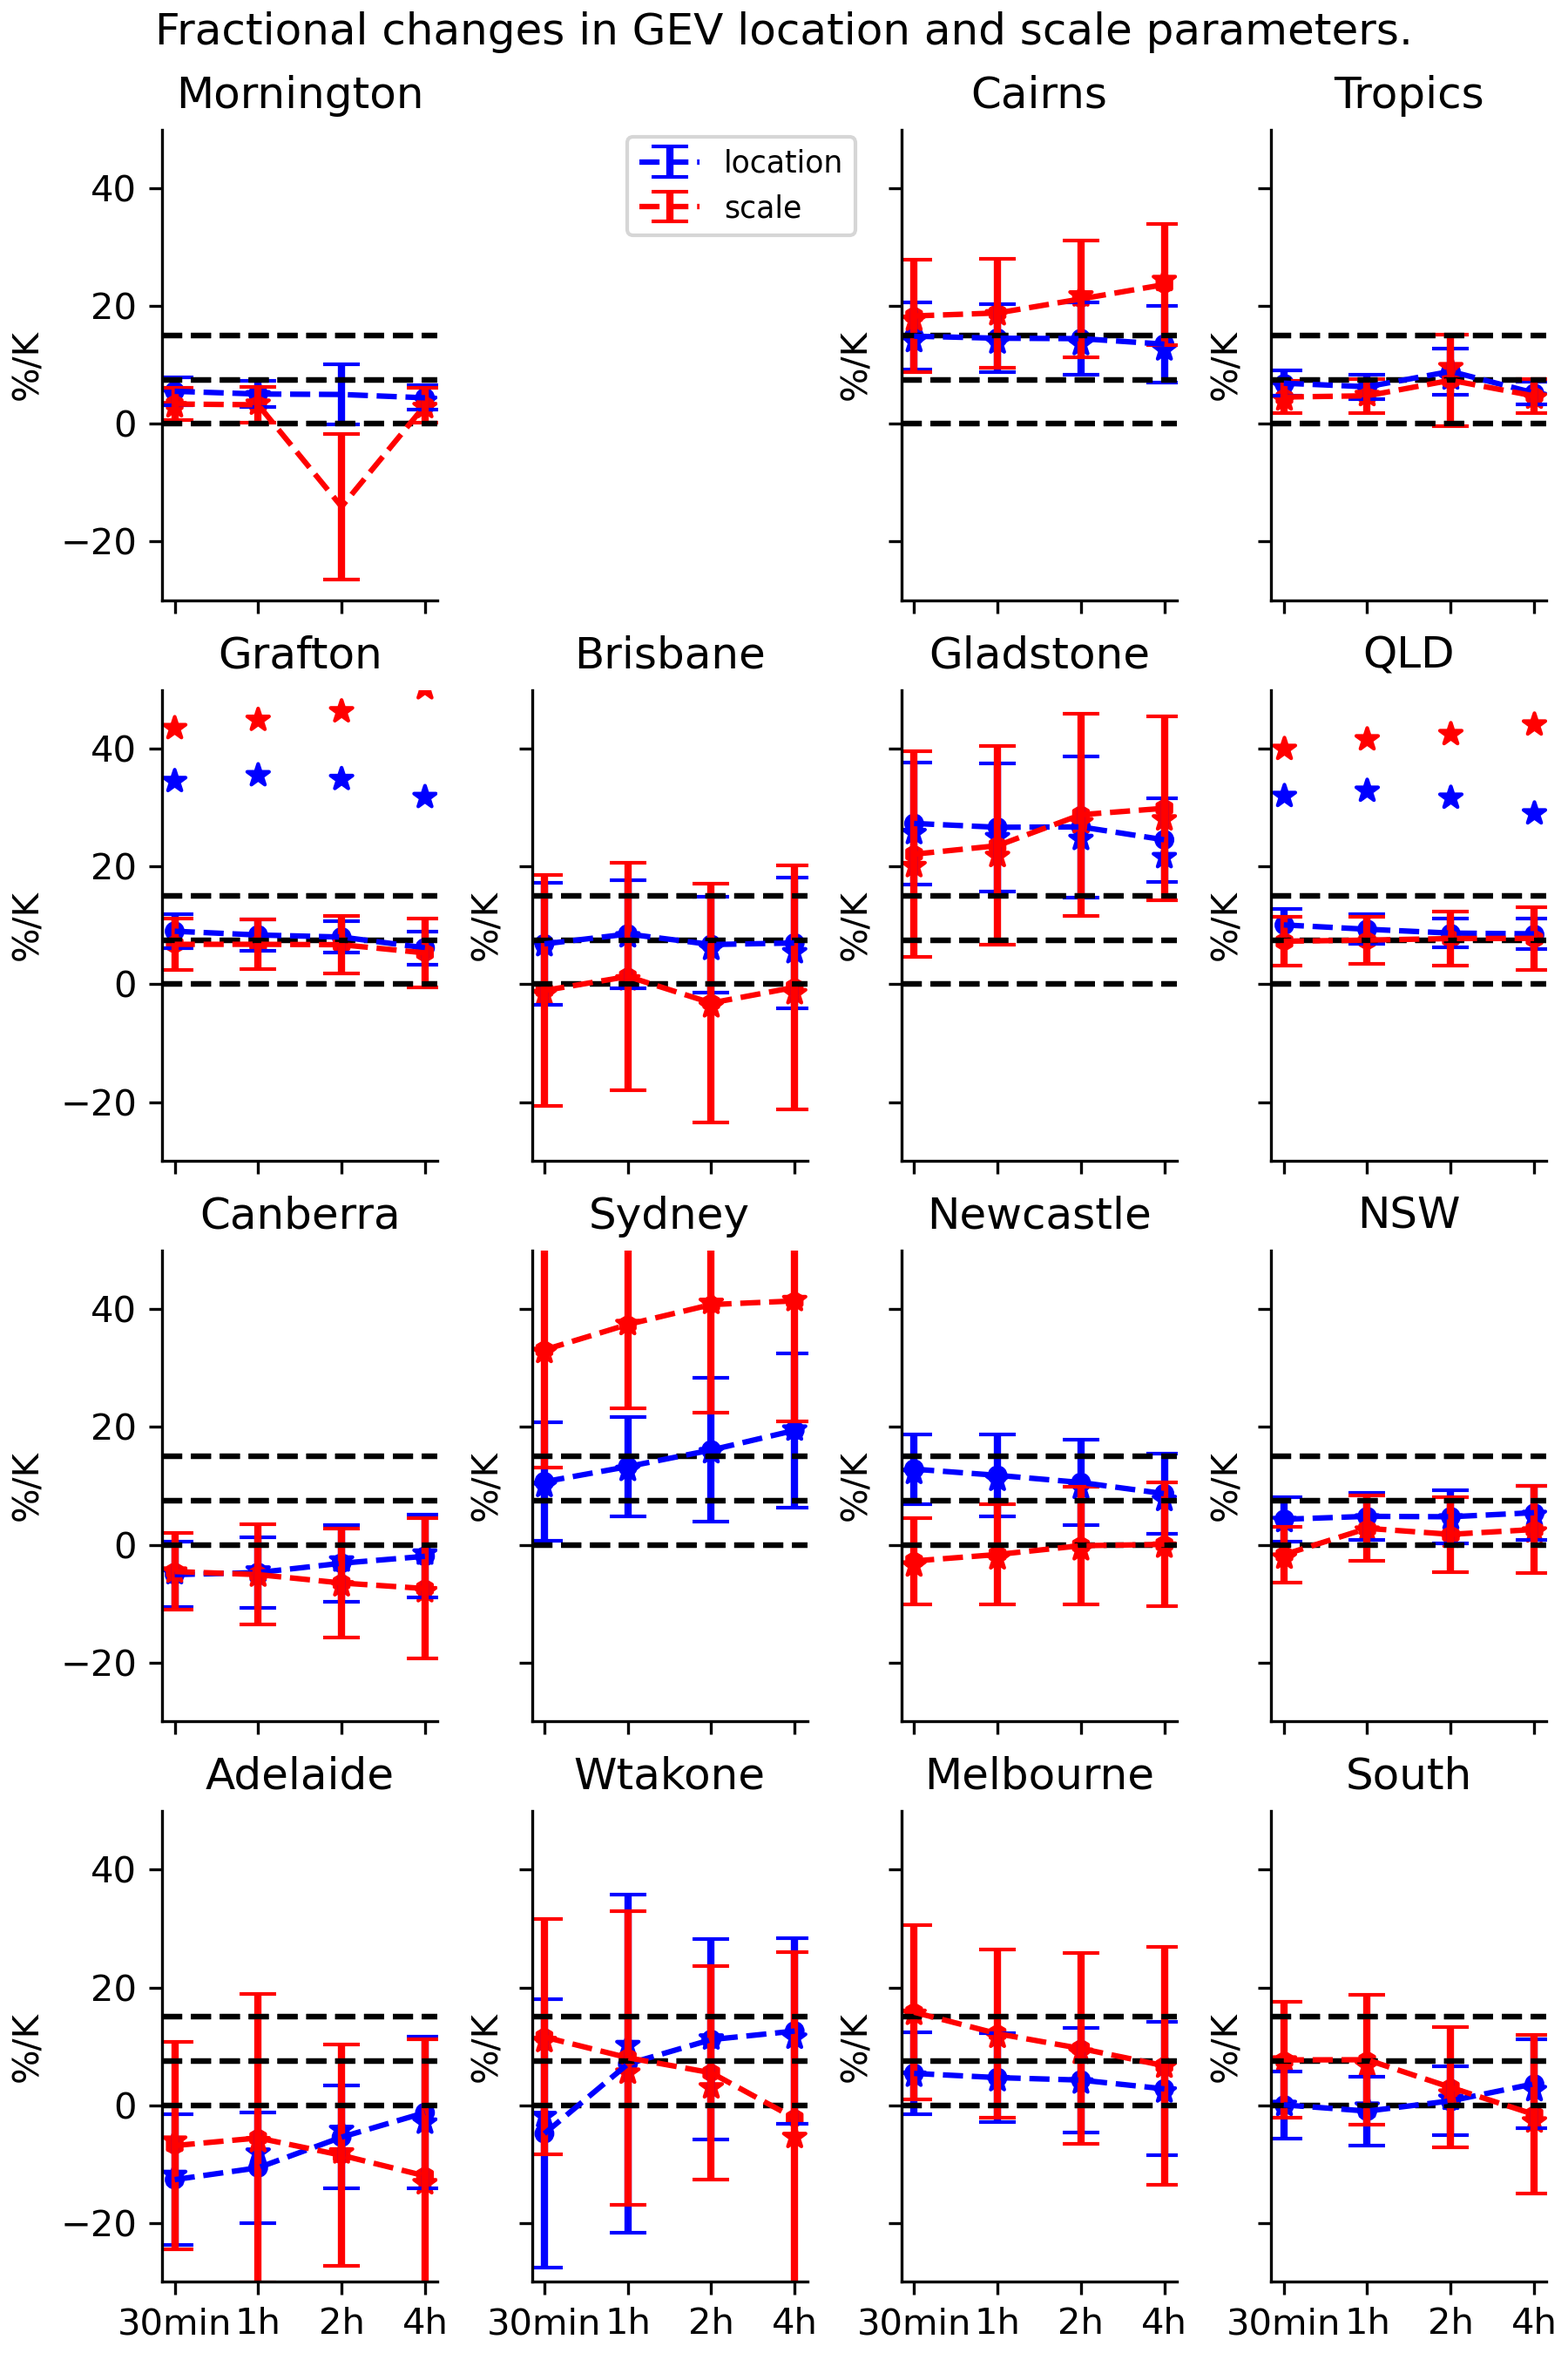
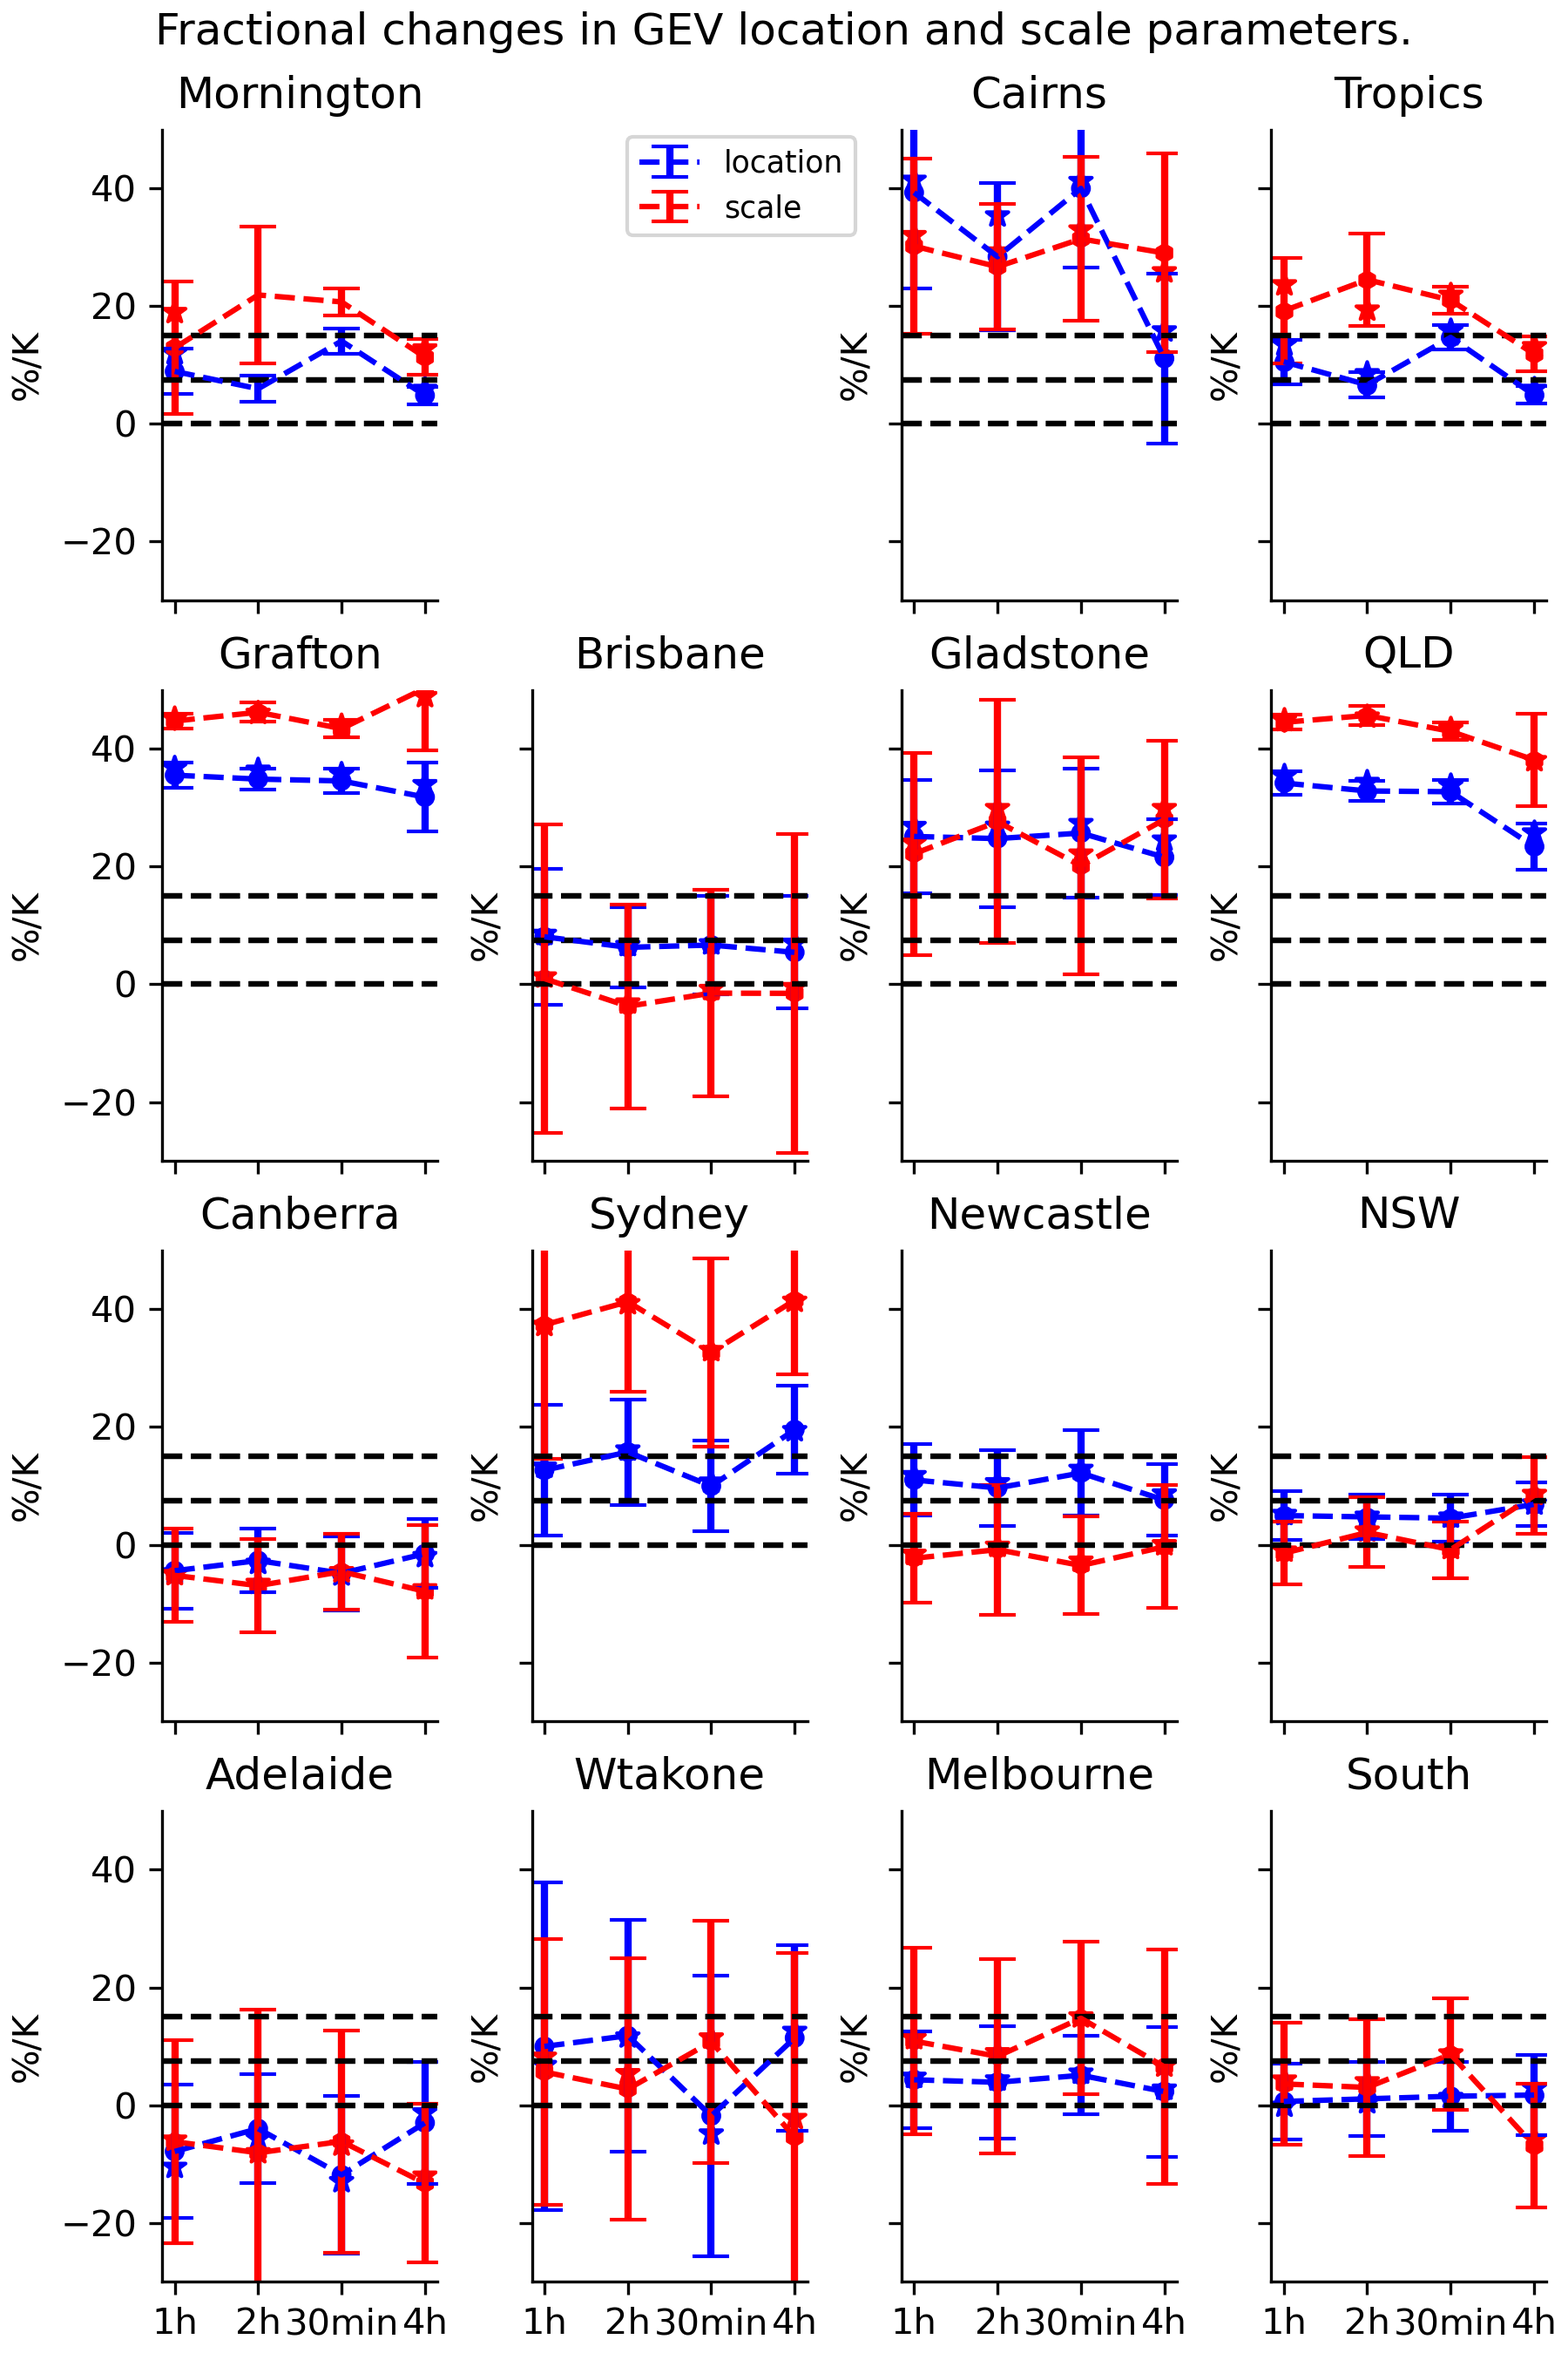
Updating plotting code. plot_gev_fits 1/2 way through.

diff --git a/plots/plot_gev_fits.py b/plots/plot_gev_fits.py
@@ -62,18 +62,19 @@ for site in ausLib.site_numbers.keys():
     # compute the fractional location and shape changes + uncerts.
 
     ds = dict()
-    for p in ['location', 'scale']:
-        dp = f'D{p}_Tanom'
-        dfract_bs = bs_t.Parameters.sel(parameter=dp) / bs_t.Parameters.sel(parameter=p)
-        ds[p + '_std'] = dfract_bs.std(dim='bootstrap_sample')
-        ds[p] = be_t.Parameters.sel(parameter=dp) / be_t.Parameters.sel(parameter=p)
-        # sens cases
-        ds[p + '_sens'] = be_t_sens.Parameters.sel(parameter=dp) / be_t_sens.Parameters.sel(parameter=p)
+
     ds['delta_AIC'] = (be_t.AIC - be.AIC)
     ds['delta_AIC_std'] = (bs_t.AIC - bs.AIC).std(dim='bootstrap_sample')
     ds['pImp'] = (bs_t.AIC < bs.AIC).sum(dim='bootstrap_sample') / bs.AIC.count('bootstrap_sample')
     ds['p'] = np.exp((be_t.AIC - be.AIC) / 2)
     ds = xarray.Dataset(ds)
+    be_ratio = ausLib.comp_ratios(be_t.Parameters)
+    be_ratio = be_ratio.assign_coords(parameter=[k.replace('_Tanom','') for k in be_ratio.parameter.values]).rename('be_ratio')
+    ds['be_ratio'] = be_ratio
+    bs_ratio = ausLib.comp_ratios(bs_t.Parameters).std('bootstrap_sample')
+    # now to rename
+    bs_ratio = bs_ratio.assign_coords(parameter=[k.replace('_Tanom','') for k in bs_ratio.parameter.values]).rename('bs_uncert')
+    ds['bs_ratio_std']=bs_ratio
     gev[site] = ds
 
     my_logger.info(f'Processed {site}')
@@ -89,12 +90,10 @@ for rng, sites in ausLib.region_names.items():
             continue
         site_ds += [gev[site].expand_dims(site=[site])]
     site_ds = xarray.concat(site_ds, dim='site')
-    ds = dict()
-    for v in ['location', 'scale']:
-        wt = 1.0 / (site_ds[v + '_std'] ** 2)
-        ds[v] = site_ds[v].weighted(wt).mean(dim='site')
-        ds[v + '_std'] = np.sqrt(1.0 / (wt.sum(dim='site')))
-        ds[v+'_sens'] = site_ds[v+'_sens'].weighted(wt).mean(dim='site')
+
+    ds = dict(be_ratio= site_ds.be_ratio.mean(dim='site'),
+                        bs_ratio_std = (site_ds.bs_ratio_std**2).mean(dim='site')/site_ds.bs_ratio_std.count(dim='site'))
+
     gev[rng] = xarray.Dataset(ds)
 my_logger.info('Processed regions')
 

diff --git a/plots/plot_Sydney_sens_studies.py b/plots/plot_Sydney_sens_studies.py
@@ -12,6 +12,7 @@ from R_python import gev_r
 
 my_logger = ausLib.setup_log(1)
 seas_files = list((ausLib.data_dir / 'processed').glob('Sydney_rain*/seas_mean*_Sydney_rain_*_DJF.nc'))
+seas_files = [f for f in seas_files if not ('check'  in str(f) or 'old' in str(f))]
 seas_mean = {}
 seas_gev_fit = dict()
 gev_t_fit = dict()
@@ -104,7 +105,7 @@ commonLib.saveFig(fig)
 def proc_events(file,threshold=0.5):
     drop_vars=['xpos', 'ypos','fraction', 'sample_resolution', 'height','Observed_temperature','time']
     radar_dataset = xarray.load_dataset(file, drop_variables=drop_vars)
-    radar_dataset = radar_dataset.sel(resample_prd=['30min', '1h', '2h'])
+    radar_dataset = radar_dataset.sel(resample_prd=['30min', '1h', '2h','4h'])
     # convert radar_dataset to accumulations.
 
     msk = (radar_dataset.max_value > threshold)
